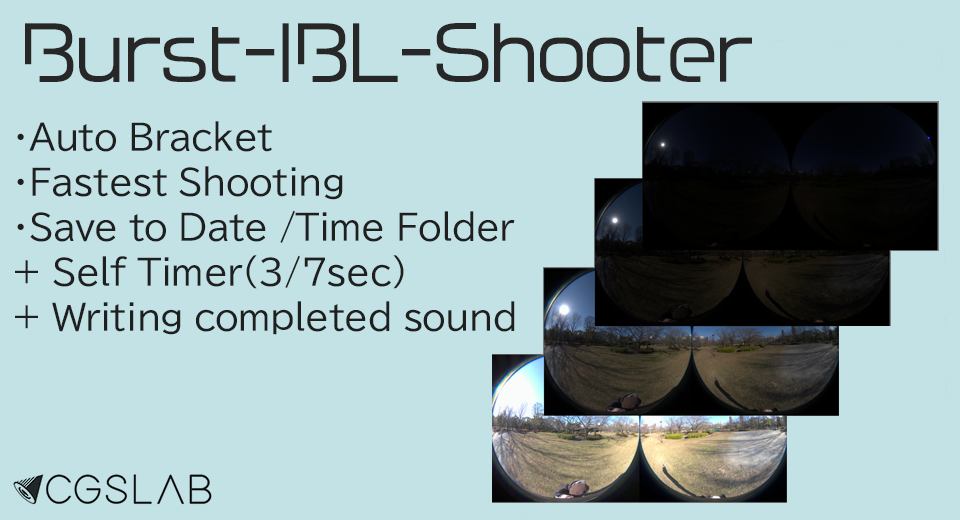
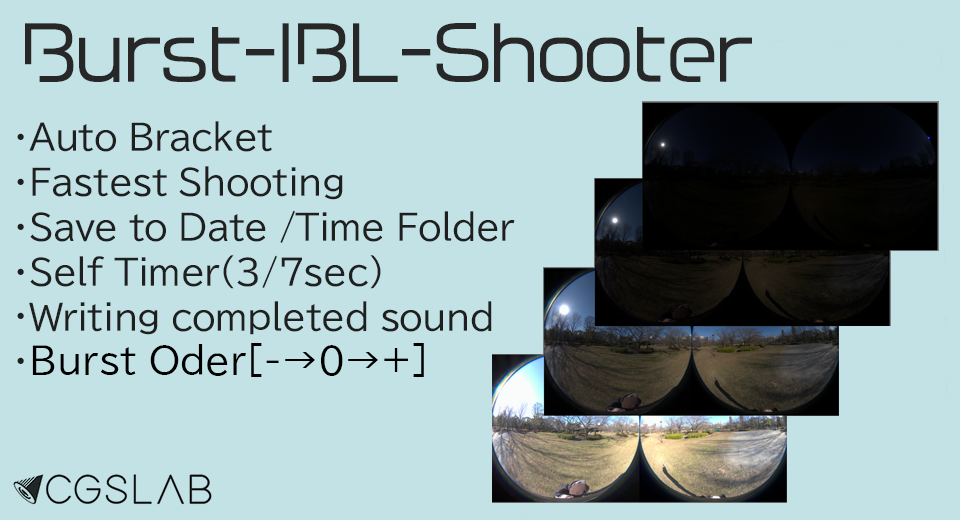
Update info.cgslab.burstiblshooter (#24)

Changed region(s): [[0.0, 0.5846, 0.5625, 0.7385], [0.0, 0.4923, 0.4375, 0.5538]]

diff --git a/plugins/info.cgslab.burstiblshooter/README.ja.md b/plugins/info.cgslab.burstiblshooter/README.ja.md
@@ -2,7 +2,7 @@
 
 # Burst-IBL-Shooter
 CGSLAB  
-[利用規約](http://site.cgslab.info/archives/929)
+[利用規約](https://site.cgslab.info/services/burst-ibl-shooter)
 
 <div align="center">
  <img src="1.png">
@@ -36,8 +36,11 @@ Mode/Fn Buttonを押すことで即撮影とセルフタイマーモードを選
 RAWデータ(DNG)のみの保存となります。  
 撮影後、画像の書き込みに20秒程度かかりますが、カメラを動かしても問題ありません。  
 この際に「WRITEING .DNG FILE. CAN MOVE THETA. | Dont Shoot!」の文章が表示されます。  
-書き込み完了後に「BURST-IBL-SHOOTER V1.1 | CAN SHOOT!」の文章が表示され書き込み完了音が鳴り再撮影が可能になります。  
+書き込み完了後に「BURST-IBL-SHOOTER V1.2 | CAN SHOOT!」の文章が表示され書き込み完了音が鳴り再撮影が可能になります。  
 ※直前の撮影モードの状態になっています。  
+  
+ブラケット順序が [0 > - > +]から[- > 0 > +]になるよう設定が変更されました。  
+この変更によって、書き出される連番画像は露出順序通りとなりました。  
   
 Burst_IBL_Shooterフォルダに日時でフォルダ分けして保存されるためデータの管理が行いやすいです。  
 撮影環境によって重複設定で撮影された画像が生成される場合があります。  
@@ -45,37 +48,18 @@ Burst_IBL_Shooterフォルダに日時でフォルダ分けして保存される
 公式のリモートコントロールプラグインとの併用で対応のBluetooth Remote Controlで遠隔撮影が可能です。  
   
 品質や処理時間の問題から、内部でHDRIに変換する予定はありません。ACESに準拠したHDRIの作成方法はこちらをご覧ください。(日本語のみ)  
-https://cgworld.jp/feature/202006-cgw262t1-tips02.html
-
+https://cgworld.jp/regular/theta_z1/  
 
 ## 新機能
-1.セルフタイマーモードの追加。
-1-1. 3または7秒＋セルフタイマーサウンド有無の4種類のセルフタイマー機能が追加されました。  
-1-2. Mode/Fn Buttonを押すことで次のModeへ移行します。  
-モード1：Now Shoot：即座に撮影が行われます。  
-モード2：(3Sec)Sound SelfTimer：3秒間のセルフタイマー音の後に撮影されます。→♪P-P-PP>Shoot  
-モード3：(7Sec)Sound SelfTimer：7秒間のセルフタイマー音の後に撮影されます。→♪P-P-P-P-P-P-PP>Shoot  
-※最上下値の場合、一周します。1←→3  
-   
-2.誤撮影防止機能。  
-撮影後の書き込み状態では「DONT SHOOT!」が表示され、モード変更及び撮影ボタンの操作は無効になります。  
-書き込み完了後の「CAN SHOOT.」が表示された状態に移行した場合、再度操作可能になります。  
-  
-3.書き込み完了音の追加。  
-すべてのモードでの撮影後の書き込みが完了時、書き込み完了音が鳴るようになりました。  
-THETA Z1のシャッター音量をOFFにしている場合はすべてのモードでセルフタイマー音、シャッター音、書き込み完了音は無音となります。  
-  
-4.リモートコントローラの非推奨  
-Bluetoothリモートコントローラを使用した場合に以下の問題が発生する場合があるため非推奨とします。  
-・撮影時にセルフタイマーのカウント音が発生しない場合がある。  
-・モード2/3でのセルフタイマー撮影をした場合、Bluetoothリモートコントローラとの接続が撮影後に切断される。  
+ブラケット順序が [0 > - > +]から[- > 0 > +]になるよう設定が変更されました。  
+この変更によって、書き出される連番画像は露出順序通りとなりました。  
 
 ## 情報
-  * 更新日：2022/6/3
-  * バージョン：1.1.0
+  * 更新日：2024/5/21
+  * バージョン：1.2.0
   * 要件：
-    * RICOH THETA Z1 （ファームウェア バージョン 2.00.1）
-  * サポート：[Partner Plugins](http://site.cgslab.info/archives/929)
+    * RICOH THETA Z1 （ファームウェア バージョン .2.10.3, 2.11.1, 2.20.3, 2.30.1, 3.01.1, 3.10.2）
+  * サポート：[Partner Plugins](http://site.cgslab.info/)
   * 年齢制限：なし
 
 * プラグインをインストールするにはパソコン用基本アプリ [RICOH THETA](https://theta360.com/ja/about/application/pc.html#app-detail-01) が必要です

diff --git a/plugins/info.cgslab.burstiblshooter/README.md b/plugins/info.cgslab.burstiblshooter/README.md
@@ -2,7 +2,7 @@ English(US) | [日本語](README.ja.md)
 
 # Burst-IBL-Shooter
 CGSLAB  
-[Terms of Use](http://site.cgslab.info/archives/929)
+[Terms of Use](https://site.cgslab.info/services/burst-ibl-shooter)
 
 <div align="center">
  <img src="1.png">
@@ -29,13 +29,16 @@ Bracketed shots can be taken properly from dark indoors to bright outdoors.
 Pressing the Mode/Fn Button allows you to select between instant shooting and self-timer mode.  
 Mode 1: Now Shoot: The picture is taken immediately.  
 Mode 2: (3Sec)Sound SelfTimer: The picture will be taken after 3 seconds of self-timer sound. →♪P-P-P-PP>Shooting  
-Mode 3: (7Sec)Sound SelfTimer: The picture will be taken after 7 seconds of self-timer sound. →♪P-P-P-P-P-P-P-P-P-P-P-P-P-P>Shooting  
+Mode 3: (7Sec)Sound SelfTimer: The picture will be taken after 7 seconds of self-timer sound. →♪P-P-P-P-P-P-P-PP>Shooting  
   
 Only RAW data (DNG) will be saved.  
 After shooting, it takes about 20 seconds to write the image, but you can move the camera.  
 At this time, the text "WRITEING .DNG FILE. CAN MOVE THETA. | Dont Shoot!"  
-After writing is complete, the text "BURST-IBL-SHOOTER V1.1 | CAN SHOOT!" will be displayed and a write completion sound will sound, allowing the camera to resume shooting.  
+After writing is complete, the text "BURST-IBL-SHOOTER V1.2 | CAN SHOOT!" will be displayed and a write completion sound will sound, allowing the camera to resume shooting.  
 *The state of the photo mode was taken just before.  
+  
+Bracket order has been changed from [0 > - > +] to [- > 0 > +].  
+As a result of this change, the exported sequentially numbered images now follow the exposure order.  
   
 The data is saved in the Burst_IBL_Shooter folder, organized by date and time for easy data management.  
 Depending on the shooting environment, duplicate images may be generated.  
@@ -43,36 +46,18 @@ Depending on the shooting environment, duplicate images may be generated.
 Remote shooting is possible with the compatible Bluetooth Remote Control when used with the official remote control plug-in.  
   
 There are no plans to internally convert to HDRI due to quality and processing time issues. See here for an ACES-compliant HDRI creation method. (JapaneseOnry)  
-https://cgworld.jp/feature/202006-cgw262t1-tips02.html  
+https://cgworld.jp/regular/theta_z1/
 
 ## What's New
-1,Addition of self-timer mode.  
-1-1. 4 types of self-timer functions have been added: 3 or 7 seconds + with or without self-timer sound.  
-1-2. Press Mode/Fn Button to move to the next Mode.  
-Mode 1: Now Shoot: The picture is taken immediately.  
-Mode 2: (3Sec)Sound SelfTimer: The picture is taken after 3 seconds of self-timer sound. → ♪P-P-PP>Shoot  
-Mode 3: (7Sec)Sound SelfTimer: The picture is taken after 7 seconds of self-timer sound. → ♪P-P-P-P-P-P-PP>Shoot  
-*For the lowest value, it will go around. ex)1←→3  
-  
-2,Error Shooting prevention function.  
-"DONT SHOOT!" will be displayed in the write status after shooting, and mode change and shooting button operation will be disabled.
-When the camera moves to the state where "CAN SHOOT." is displayed after writing is completed, the camera can be operated again.  
-  
-3,Addition of writing completion sound.  
-A completion sound is now emitted when writing is complete after shooting in all modes.  
-When the shutter volume of THETA Z1 is turned off, the self-timer sound, shutter sound, and writing completion sound will be silent in all modes.  
-  
-4,Deprecation of remote controllers.  
-The following problems may occur when using a Bluetooth remote controller.  
-The self-timer count sound may not be generated when shooting.  
-When shooting with the self-timer in mode 2 or 3, the connection with the Bluetooth remote controller is disconnected after shooting.  
+Bracket order has been changed from [0 > - > +] to [- > 0 > +].  
+As a result of this change, the exported sequentially numbered images now follow the exposure order.  
 
 ## Information
-  * Updated：2022/6/3
-  * Version：1.1.0
+  * Updated：2024/5/21
+  * Version：1.2.0
   * Requires：
-    * RICOH THETA Z1 (Firmware version 2.00.1)
-  * Support：[Partner Plugins](http://site.cgslab.info/archives/929)
+    * RICOH THETA Z1 (Firmware version 2.10.3, 2.11.1, 2.20.3, 2.30.1, 3.01.1, 3.10.2)
+  * Support：[Partner Plugins](http://site.cgslab.info/)
   * Age Restriction：No
 
 * The [RICOH THETA](https://theta360.com/ja/about/application/pc.html#app-detail-01) basic app for computer is required to install plugins
